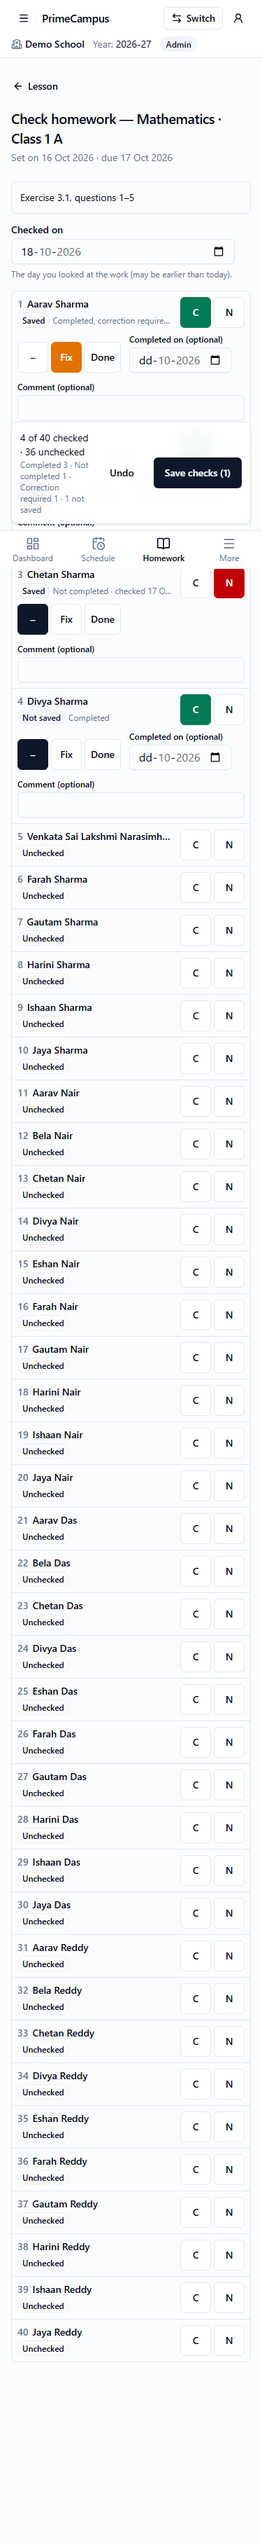
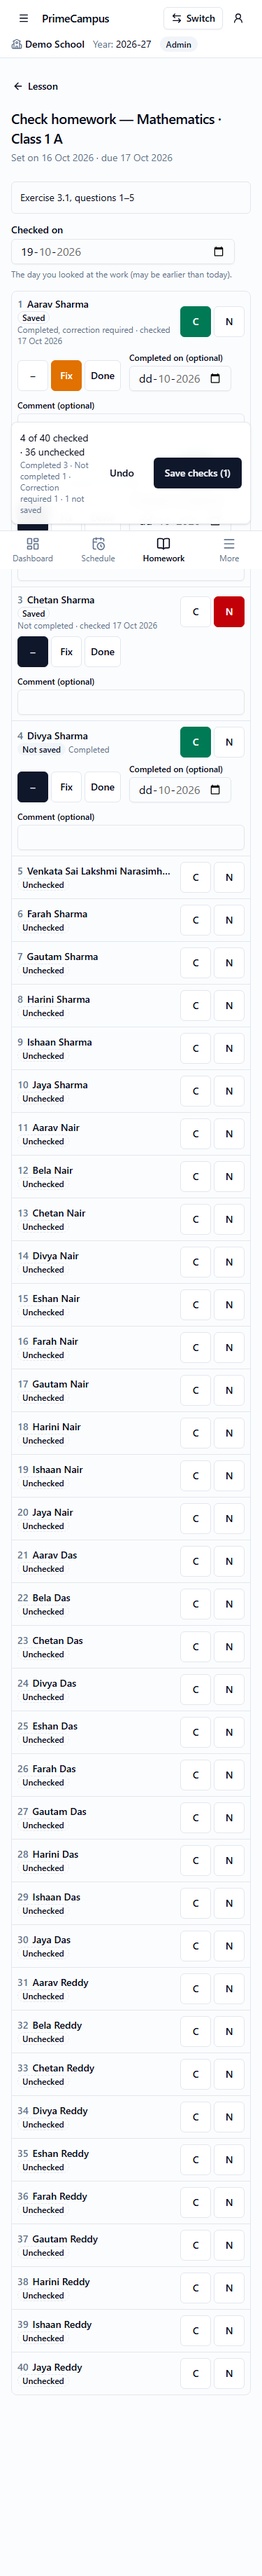
M2X §2: roster rows show the admission number in full at 375px
The reference (admission / employee number) is no longer truncated with
a tooltip: it shares the line with the state badge when it fits and
wraps onto its own line otherwise. The name keeps its own full line.
Badge without vertical padding and 6px row padding on phones keep a
wrapped row within 72px.

Tried and dropped: the badge on the name line kept rows at 56-61px but
cut names to "11 Aa…" beside "Not saved" (checked in the screenshot).

Mocked spec (tests/e2e/m2-layout.spec.ts): limit 72px; realistic
13-character admission numbers; every row's reference must be shown in
full (no overflow, no ellipsis, inside the row); measured heights are
annotated. Day register 66-67px, staff 66-67px, homework 60-61px. Known
limit: a 23-character number takes two lines (row ≤ 88px, asserted).
Screenshots regenerated from the mocked spec; the live run replaces them.

diff --git a/tests/e2e/m2-layout.spec.ts b/tests/e2e/m2-layout.spec.ts
@@ -1,7 +1,8 @@
 import { expect, test, type Locator, type Page, type Route } from '@playwright/test';
 
 // 375px roster layout (M2 owner review): name, reference and state on the left, the choice buttons
-// on the RIGHT of the same line, buttons ≥ 44px, ≤ 64px per row, no sideways page scroll.
+// on the RIGHT of the same line, buttons ≥ 44px, ≤ 72px per row (M2X), the admission number readable
+// in full without hover, no sideways page scroll.
 //
 // Runs WITHOUT the live backend: every Supabase request is answered here (a fake Auth session and
 // fixed RPC replies) and anything unexpected is aborted, so nothing reaches the real project. It
@@ -11,7 +12,7 @@ import { expect, test, type Locator, type Page, type Route } from '@playwright/t
 const SHOTS = process.env.M2_LAYOUT_SHOTS === '1';
 const SCREENS = 'docs/reports/m2-screens';
 const PHONE = { width: 375, height: 812 };
-const MAX_ROW = 64;
+const MAX_ROW = 72;
 
 const uuid = (prefix: string, n: number) => `${prefix}-0000-4000-8000-${String(n).padStart(12, '0')}`;
 const ACCOUNT = uuid('11111111', 1);
@@ -52,7 +53,8 @@ const STUDENTS = Array.from({ length: 40 }, (_, i) => ({
     i === 4
       ? 'Venkata Sai Lakshmi Narasimha Rao'
       : `${FIRST[i % FIRST.length]} ${LAST[Math.floor(i / FIRST.length) % LAST.length]}`,
-  admission_no: i === 7 ? 'DEMO/2026-27/ADM/000008' : `DEMO-S${i + 1}`,
+  // live run-suffixed numbers are this long ("DEMO-S…" was all a phone showed before M2X)
+  admission_no: i === 7 ? 'DEMO/2026-27/ADM/000008' : `DEMO-IMP-${String(i + 1).padStart(4, '0')}`,
 }));
 
 const day = { academic_year_id: YEAR, day_type: 'working', weight: 1, period_schedule_id: null, label: null };
@@ -186,6 +188,7 @@ function rpcReply(fn: string): unknown {
       };
     case 'get_homework_roster':
       return {
+        can_check: true,
         assignment: {
           id: HOMEWORK,
           academic_year_id: YEAR,
@@ -281,26 +284,49 @@ async function noHorizontalScroll(page: Page) {
   expect(overflow).toBeLessThanOrEqual(1);
 }
 
-/** Each row: ≤ 64px; the choice buttons sit to the right of the name, on the name's line; ≥ 44px. */
+/**
+ * Each row: ≤ 72px; the choice buttons sit to the right of the name, on the name's line; ≥ 44px; the
+ * reference (admission / employee number) is shown in full — not cut off, not hidden behind a tooltip.
+ */
 async function checkCompactRows(rows: Locator, { maxHeight = MAX_ROW, skip = new Set<number>() } = {}) {
   const n = await rows.count();
   expect(n).toBeGreaterThan(0);
+  const heights: number[] = [];
   for (let i = 0; i < n; i += 1) {
     const row = rows.nth(i);
     const name = row.locator('p').first();
     const group = row.getByRole('radiogroup').first();
     const [r, nb, gb] = await Promise.all([row.boundingBox(), name.boundingBox(), group.boundingBox()]);
     if (!r || !nb || !gb) throw new Error(`row ${i} not laid out`);
-    if (!skip.has(i)) expect(r.height, `row ${i} height`).toBeLessThanOrEqual(maxHeight);
+    if (!skip.has(i)) {
+      heights.push(r.height);
+      expect(r.height, `row ${i} height`).toBeLessThanOrEqual(maxHeight);
+    }
     expect(gb.x, `row ${i}: buttons to the right of the name`).toBeGreaterThanOrEqual(nb.x + nb.width - 1);
     expect(gb.y, `row ${i}: buttons on the name's line`).toBeLessThan(nb.y + nb.height);
     expect(gb.x + gb.width, `row ${i}: buttons inside the row`).toBeLessThanOrEqual(r.x + r.width + 1);
+    const ref = row.getByTestId('row-reference');
+    if ((await ref.count()) > 0) {
+      const cut = await ref.evaluate(
+        (el) => el.scrollWidth > el.clientWidth + 1 || getComputedStyle(el).textOverflow === 'ellipsis',
+      );
+      expect(cut, `row ${i}: reference shown in full`).toBe(false);
+      const refBox = await ref.boundingBox();
+      expect(refBox!.x + refBox!.width, `row ${i}: reference inside the row`).toBeLessThanOrEqual(
+        r.x + r.width + 1,
+      );
+    }
     for (const b of await group.getByRole('radio').all()) {
       const bb = await b.boundingBox();
       expect(bb!.height).toBeGreaterThanOrEqual(44);
       expect(bb!.width).toBeGreaterThanOrEqual(44);
     }
   }
+  // measured heights, for the module report
+  test.info().annotations.push({
+    type: 'row heights',
+    description: `min ${Math.min(...heights)}px, max ${Math.max(...heights)}px over ${heights.length} rows`,
+  });
 }
 
 async function shot(page: Page, name: string) {
@@ -327,12 +353,16 @@ test('375px: student day register rows are compact, buttons on the right', async
   // the state stays in words next to the admission number
   await expect(rows.nth(12).getByText('Not saved')).toBeVisible();
   await expect(rows.nth(0).getByText('Saved', { exact: true })).toBeVisible();
-  await expect(rows.nth(7).getByTestId('row-reference')).toContainText('DEMO/2026-27');
+  await expect(rows.nth(7).getByTestId('row-reference')).toContainText('DEMO/2026-27/ADM/000008');
+  await expect(rows.nth(12).getByTestId('row-reference')).toContainText('DEMO-IMP-0013');
 
-  await checkCompactRows(rows);
+  // row 7 has a 23-character admission number: it needs two lines of its own (known limit, M2X
+  // report); still shown in full, the row may be up to 88px. Every other row stays within 72px.
+  await checkCompactRows(rows, { skip: new Set([7]) });
+  expect((await rows.nth(7).boundingBox())!.height).toBeLessThanOrEqual(88);
   await noHorizontalScroll(page);
   const list = await page.getByTestId('roster-rows').boundingBox();
-  // 40 students in well under 40 × 64px
+  // 40 students in well under 40 × 72px
   expect(list!.height).toBeLessThanOrEqual(40 * MAX_ROW + 40);
   await shot(page, '375-marking-roster');
   expect(unexpected).toEqual([]);

diff --git a/src/components/shared/roster-ui.tsx b/src/components/shared/roster-ui.tsx
@@ -101,9 +101,10 @@ export function RowStateBadge({ state, unmarkedLabel }: { state: RowState; unmar
 }
 
 /**
- * The left side of a compact roster row: the name (with roll number) on one line, then the row's
- * state in words and a short reference (admission / employee number), truncated rather than wrapped.
- * `extra` adds an optional third line (e.g. paid leave) only for the rows that have it.
+ * The left side of a compact roster row: the name (with roll number) on its own line, then the row's
+ * state in words and the reference (admission / employee number). The reference is never cut off
+ * (a tooltip can't be read on a phone, M2X): when it doesn't fit beside the state it wraps onto its
+ * own line. `extra` adds an optional line (e.g. paid leave) only for the rows that have it.
  */
 export function RosterRowLabel({
   lead,
@@ -127,13 +128,12 @@ export function RosterRowLabel({
         {lead !== undefined && <span className="text-muted-foreground mr-1.5 tabular-nums">{lead}</span>}
         {name}
       </p>
-      {/* slimmer badge padding here so a short admission number still fits beside "Not saved" */}
-      <div className="mt-0.5 flex min-w-0 items-center gap-1 [&_[data-slot=badge]]:px-1.5">
+      {/* slimmer badge (no vertical padding) so a wrapped reference keeps the row ≤ 72px at 375px */}
+      <div className="flex min-w-0 flex-wrap items-center gap-x-1 [&_[data-slot=badge]]:px-1.5 [&_[data-slot=badge]]:py-0">
         {badge}
         {reference !== undefined && (
           <span
-            className="text-muted-foreground min-w-0 truncate text-xs"
-            title={typeof reference === 'string' ? reference : undefined}
+            className="text-muted-foreground min-w-0 text-xs leading-4 break-all"
             data-testid="row-reference"
           >
             {referenceLabel && <span className="sr-only">{referenceLabel} </span>}
@@ -148,7 +148,7 @@ export function RosterRowLabel({
 
 /** Classes for a compact roster row (`li`): one line at 375px; a conflict wraps below. */
 export const ROSTER_ROW_CLASS =
-  'focus-visible:bg-accent/60 flex flex-wrap items-center gap-x-2 gap-y-2 px-2 py-2 outline-none sm:px-3';
+  'focus-visible:bg-accent/60 flex flex-wrap items-center gap-x-2 gap-y-2 px-2 py-1.5 outline-none sm:px-3 sm:py-2';
 /** Classes for the row's choice buttons: on the right, never wrapping under the name. */
 export const ROSTER_CHOICES_CLASS = 'shrink-0 flex-nowrap';
 
